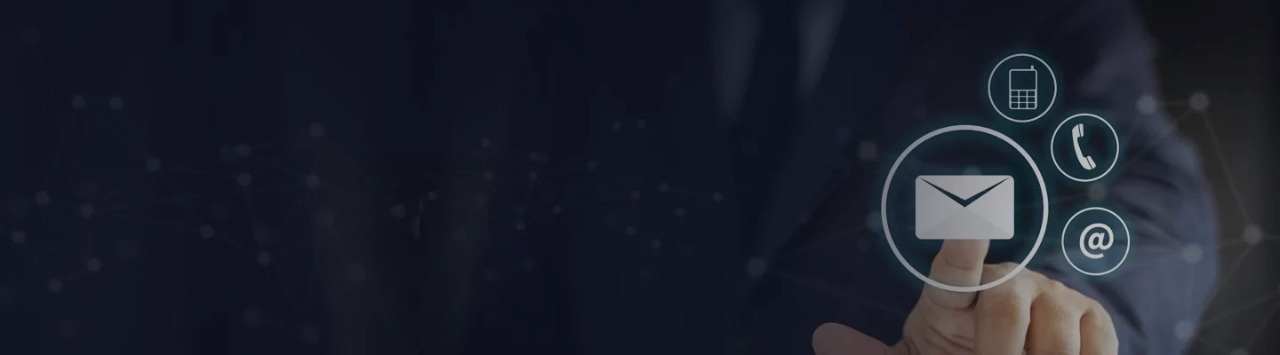
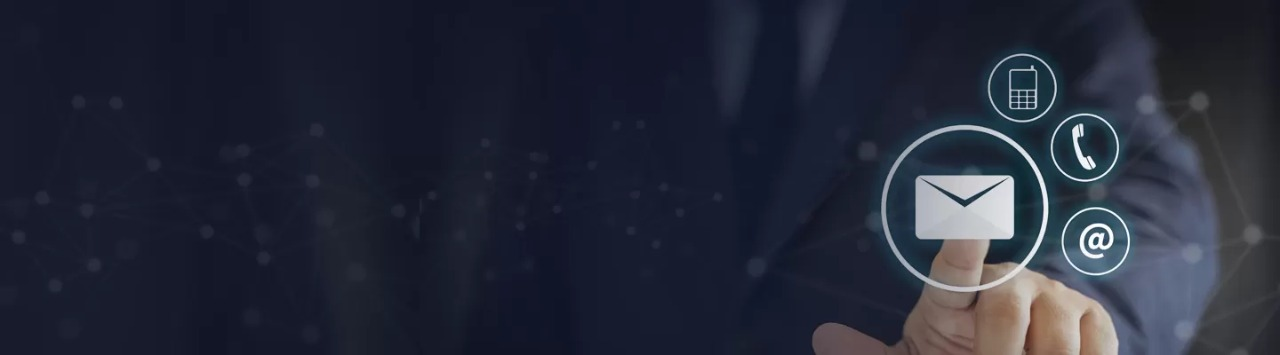
responcive

diff --git a/src/components/Contact/Contactlanding.css b/src/components/Contact/Contactlanding.css
@@ -1,20 +1,119 @@
-.contact{
+.contact {
+  background-image: url("../../assets/contact.jpg");
 
+  background-repeat: no-repeat;
+  background-size: cover;
 
-    background-image: 
-  
-    
-       url("../../assets/contact.jpg");
-   
-     background-repeat: no-repeat;
-     background-size: cover;
-   
-     
-     
+  min-height: 300px;
+  color: #fff;
+  background-position: 50% 50%;
+  /* background-size: cover; */
+  background-position: center;
+  /* background-attachment: fixed; */
+}
+
+@media only screen and (max-width: 380px) {
+  .contact {
+    width: 100%;
+    background-image: url("../../assets/contact.jpg");
+
+    background-repeat: no-repeat;
+    background-size: cover;
+
     min-height: 300px;
-    color: #fff;
-    background-position: 50% 50%;
-    /* background-size: cover; */
-     background-position: center;
-     /* background-attachment: fixed; */
-   }
+    color: white;
+    /* background-position: 50% 50%; */
+  
+    background-position: center;
+ 
+    
+
+  
+    background-size: cover;
+
+     
+    background-size: 100% 100%;
+    background-repeat: no-repeat;
+  }
+}
+
+
+
+
+/* @media only screen and (min-width: 380px) and (max-width: 540px) {
+  .landing {
+    width: 100%;
+    background-image: linear-gradient(
+        to left,
+        rgba(243, 238, 234, 0),
+        rgba(230, 242, 244, 0.837)
+      ),
+      url("../../assets/homelanding.png");
+    height: auto;
+
+    background-size: contain;
+    background-size: cover;
+
+    background-size: auto 90%;
+
+    background-repeat: no-repeat;
+  }
+}
+@media only screen and (min-width: 447px) and (max-width: 767px) {
+  .landing {
+    width: 100%;
+    background-image: linear-gradient(
+        to left,
+        rgba(243, 238, 234, 0),
+        rgba(230, 242, 244, 0.837)
+      ),
+      url("../../assets/homelanding.png");
+    height: auto;
+
+    background-size: contain;
+    background-size: cover;
+
+    background-size: auto 100%;
+
+    background-repeat: no-repeat;
+  }
+}
+
+@media only screen and (min-width: 540px) and (max-width: 725px) {
+  .landing {
+    width: 100%;
+    background-image: linear-gradient(
+        to left,
+        rgba(243, 238, 234, 0),
+        rgba(230, 242, 244, 0.837)
+      ),
+      url("../../assets/homelanding.png");
+    height: auto;
+
+    background-size: contain;
+    background-size: cover;
+
+    background-size: auto 100%;
+
+    background-repeat: no-repeat;
+  }
+}
+@media only screen and (min-width: 725px) and (max-width: 1000px) {
+  .landing {
+    width: 100%;
+    background-image: linear-gradient(
+        to left,
+        rgba(243, 238, 234, 0),
+        rgba(230, 242, 244, 0.837)
+      ),
+      url("../../assets/homelanding.png");
+    height: auto;
+
+    background-size: contain;
+    background-size: cover;
+
+    background-size: 100% 90%;
+
+    background-repeat: no-repeat;
+  }
+} */

diff --git a/src/components/Home/Home.js b/src/components/Home/Home.js
@@ -1,31 +1,31 @@
-import React from 'react';
-import Achievements from '../Achievements/Achievements';
+import React from "react";
+import Achievements from "../Achievements/Achievements";
 // import Busniess from '../Busniess/Busniess';
-import Chairman from '../Chairman/Chairman';
-import CompaniesProfile from '../CompaniesProfile/CompaniesProfile';
-import Contact from '../Contact/Contact';
-import HomeContact from '../Contact/HomeContact';
-import Director from '../Director/Director';
-import Landing from '../Landing/Landing';
-import Managment from '../Managment/Managment';
-import News from '../News/News';
+import Chairman from "../Chairman/Chairman";
+import CompaniesProfile from "../CompaniesProfile/CompaniesProfile";
+import Contact from "../Contact/Contact";
+import HomeContact from "../Contact/HomeContact";
+import Director from "../Director/Director";
+import Landing from "../Landing/Landing";
+import Managment from "../Managment/Managment";
+import News from "../News/News";
 
 const Home = () => {
-     return (
-          <div>
-               {/* <Landing></Landing> */}
-             
-               <CompaniesProfile/>
-          
-               <Director/>
-               <Chairman/>
-               <Managment/>
-               <Achievements/>
-               <News/>
-                    <HomeContact/>
-               {/* <Contact/> */}
-          </div>
-     );
+  return (
+    <div>
+      <Landing></Landing>
+
+      <CompaniesProfile />
+
+      <Director />
+      <Chairman />
+      <Managment />
+      <Achievements />
+      <News />
+      <HomeContact />
+      {/* <Contact/> */}
+    </div>
+  );
 };
 
 export default Home;

diff --git a/src/components/Contact/ContactLanding.js b/src/components/Contact/ContactLanding.js
@@ -10,7 +10,7 @@ const ContactLanding = () => {
         data-aos-delay="5000"
         data-aos-duration="3000"  >
   <div className="  "></div>
-  <div className="hero-content text-center text-neutral-content">
+  <div className="hero-content text-center  ">
     <div className="max-w-md">
       <h1 className="mb-5 text-5xl font-bold">Contact</h1>
       <p className="mb-5">MRG Group of Companies is one of the largest conglomerates in Bangladesh, Specialized in the Healthcare, Education, Convention Center & Advanced Poultry/ Fish Feeds Sector.</p>

diff --git a/src/components/Nav/Topnav/Topnav.js b/src/components/Nav/Topnav/Topnav.js
@@ -47,7 +47,7 @@ const Topnav = () => {
             style={{ color: "white" }}
           >
             <div>
-            <p className="text-[5px] sm:m-4 lg:text-xs text-transparent  bg-clip-text bg-gradient-to-r from-[#FECD04] to-[#F2A04A]  	">
+            <p className="text-[5px] sm:m-4 lg:text-xs text-transparent  bg-clip-text bg-gradient-to-l from-[#FECD04] to-[#F2A04A]  	">
                 Link Organization
               </p>
             </div>
